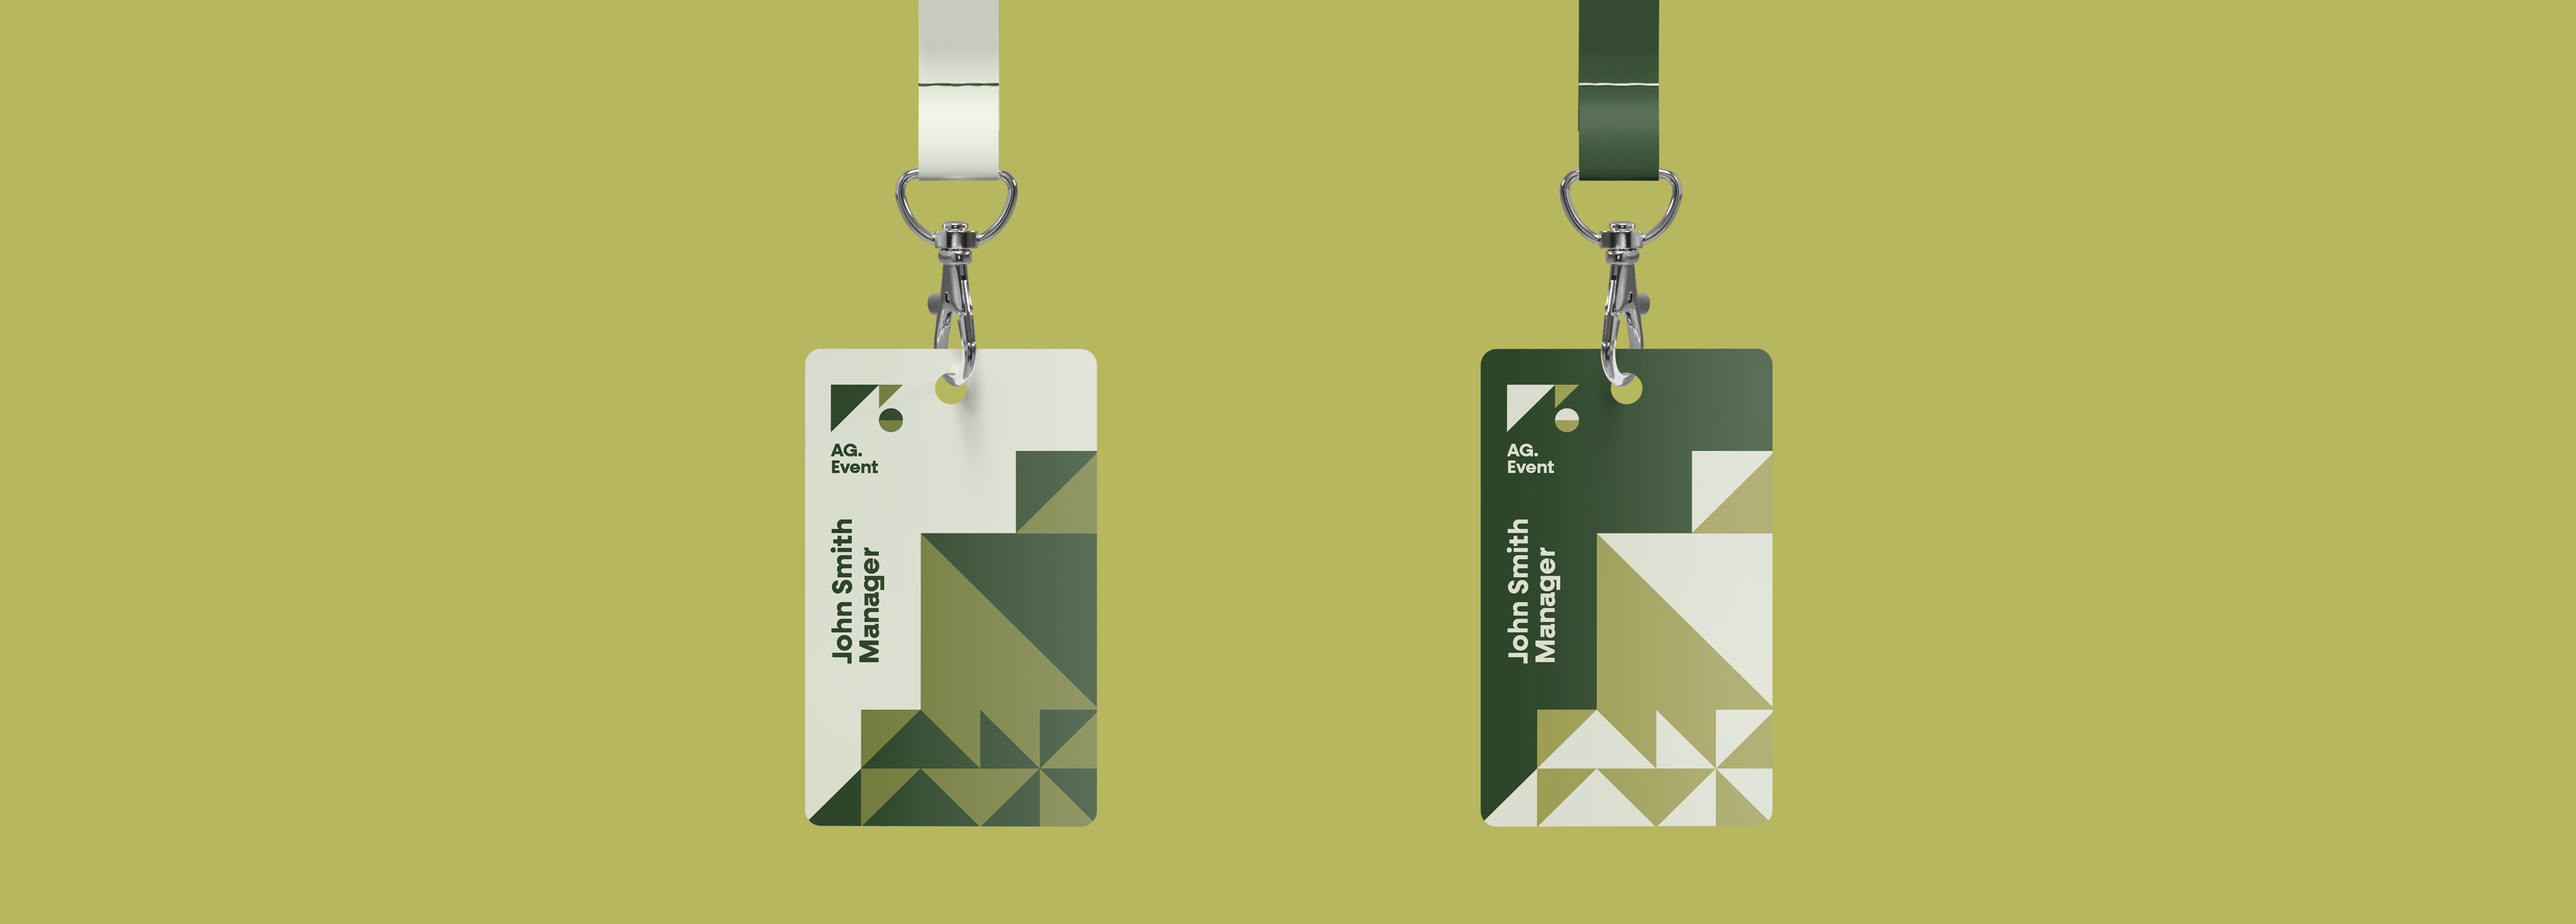
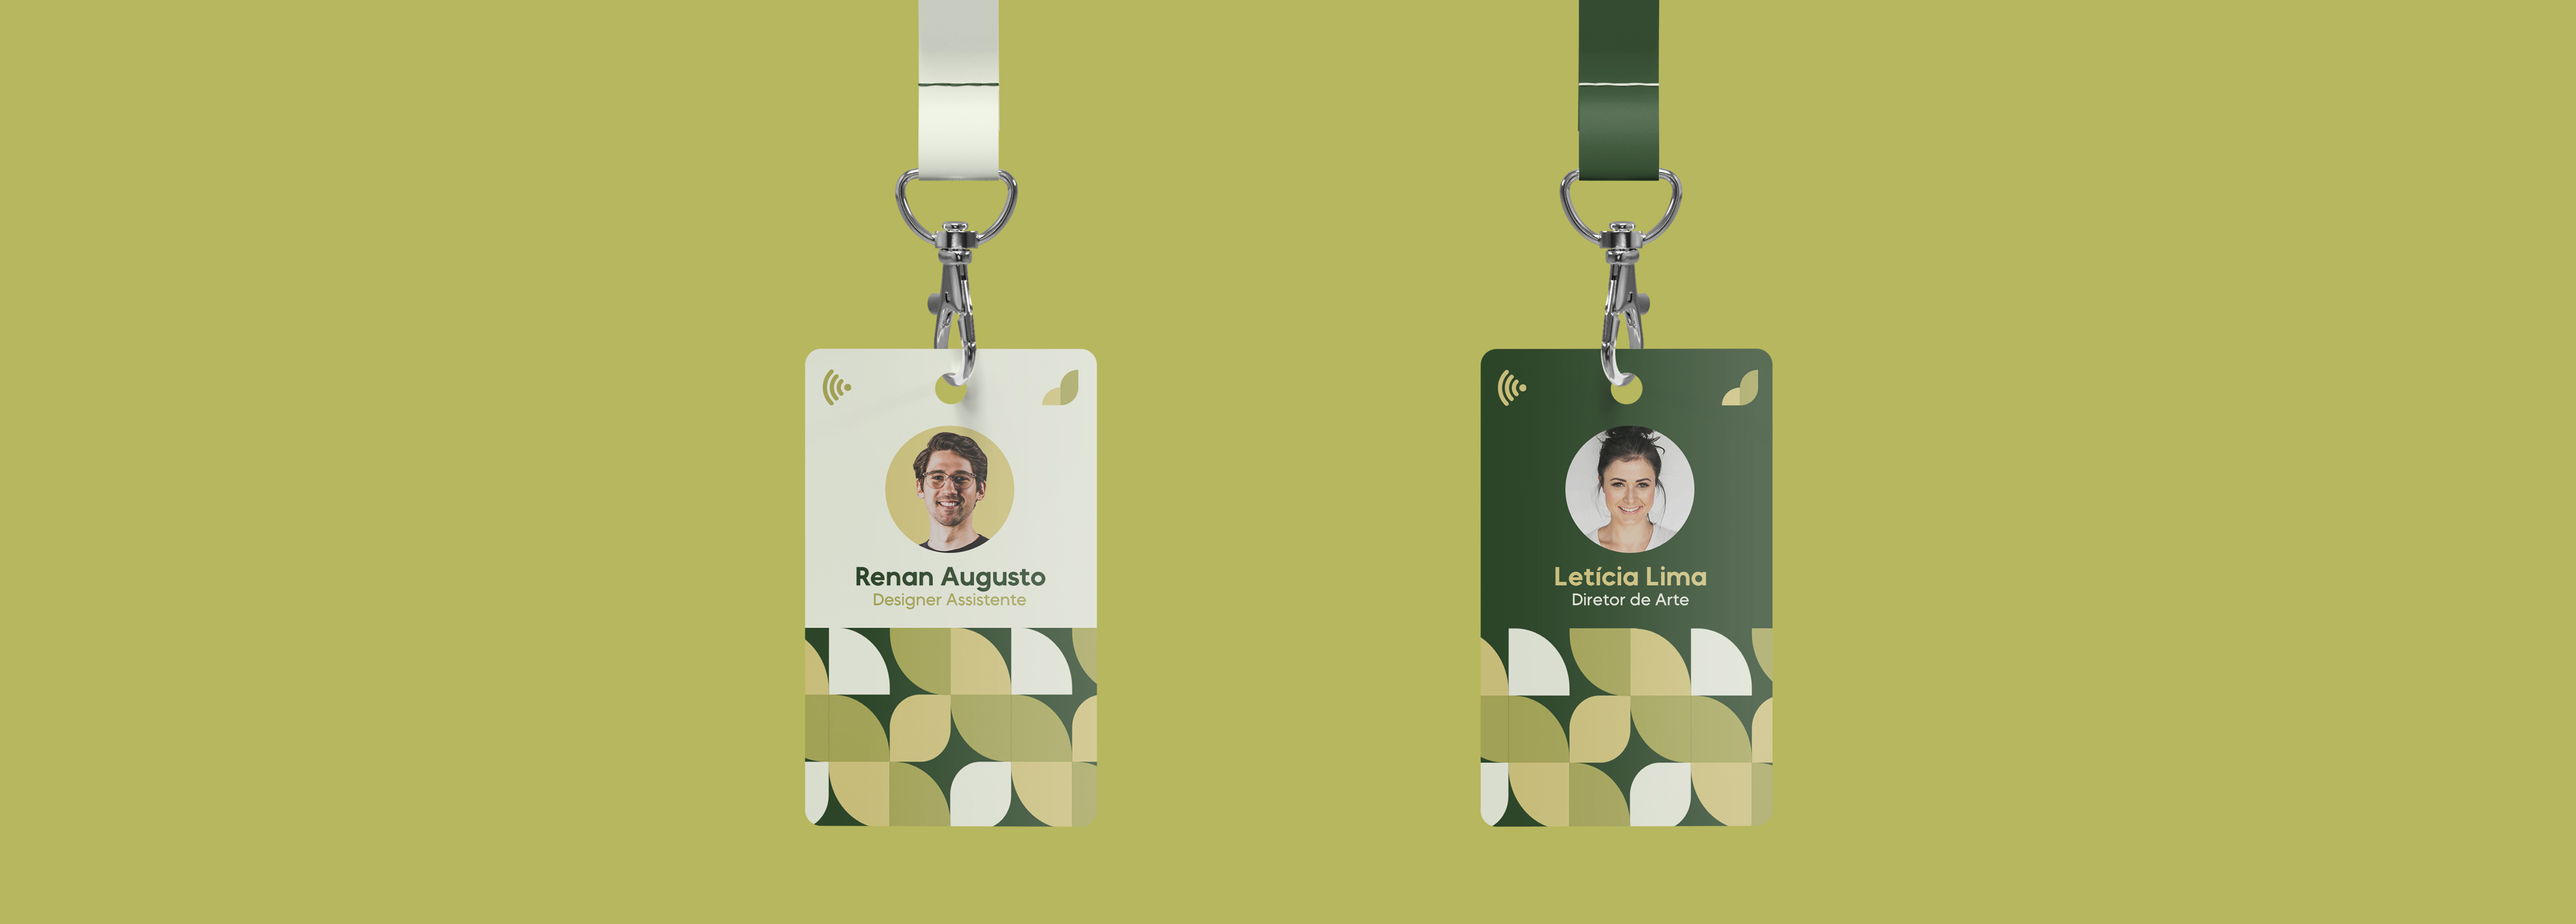
add applications

diff --git a/trampos/merula.html b/trampos/merula.html
@@ -56,7 +56,7 @@
                 </div>
                 <div class="port-bglogo">
                     <div class="overlay-bglogo merula"></div>
-                    <img src="../images/pages/merula/bg-project.jpg" alt="">   
+                    <img src="../images/pages/merula/bgpin.jpg" alt="">   
                 </div>
             </div>
             <div class="port-projeto-merula">
@@ -80,24 +80,11 @@
                     </div>
                 </div>
                 <div class="merula-poster">
-                    <span class="imgs-project"><img src="../images/pages/merula/outdoors.jpg" class="projeto_imgs" alt=""></span>
+                    <span class="imgs-project"><img src="../images/pages/merula/atributos.jpg" class="projeto_imgs" alt=""></span>
                 </div>
-                <div class="merula-preset2">
-                    <div class="merula-preset2-header">
-                        <div class="merula-preset2-indice">
-                            <h4>identidade</h4>
-                        </div>
-                        <div class="merula-preset-logo">
-                            <img src="../images/pages/merula/merula.svg" alt="">
-                        </div>
-                    </div>
-                    <div class="merula-idvisual">
-                        <img src="../images/pages/merula/atributos.png" alt="">
-                    </div>
-                    <div class="merula-processo">
-                        <span class="imgs-project"><img src="../images/pages/merula/merula-logo-reveal.gif" class="projeto_imgs" alt=""></span>
-                        <span class="imgs-project"><img src="../images/pages/merula/merula-grid-reveal.gif" class="projeto_imgs" alt=""></span>
-                    </div>
+                <div class="merula-processo">
+                    <span class="imgs-project"><img src="../images/pages/merula/merula-logo-reveal.gif" class="projeto_imgs" alt=""></span>
+                    <span class="imgs-project"><img src="../images/pages/merula/merula-grid-reveal.gif" class="projeto_imgs" alt=""></span>
                 </div>
                 <div class="merula-papelaria">
                     <span class="imgs-project"><img src="../images/pages/merula/papelaria.jpg" class="projeto_imgs" alt=""></span>
@@ -160,6 +147,36 @@
                 </div>
                 <div class="merula-cards">
                     <span class="imgs-project"><img src="../images/pages/merula/card.jpg" class="projeto_imgs" alt=""></span>
+                </div>
+                <div class="merula-preset2">
+                    <div class="merula-preset2-header">
+                        <div class="merula-preset2-indice">
+                            <h4>aplicações</h4>
+                        </div>
+                        <div class="merula-preset-logo">
+                            <img src="../images/pages/merula/merula.svg" alt="">
+                        </div>
+                    </div>
+                    <div class="merula-application">
+                        <div class="apl-one">
+                            <span class="imgs-project"><img src="../images/pages/merula/ecobag.jpg" class="projeto_imgs" alt=""></span>
+                            <span class="imgs-project"><img src="../images/pages/merula/mochila.jpg" class="projeto_imgs" alt=""></span>
+                            <span class="imgs-project"><img src="../images/pages/merula/camiseta.jpg" class="projeto_imgs" alt=""></span>
+                            <span class="imgs-project"><img src="../images/pages/merula/moletom.jpg" class="projeto_imgs" alt=""></span>
+                        </div>
+                        <div class="apl-two">
+                            <span class="imgs-project"><img src="../images/pages/merula/garrafa.jpg" class="projeto_imgs" alt=""></span>
+                            <span class="imgs-project"><img src="../images/pages/merula/fone.jpg" class="projeto_imgs" alt=""></span>
+                            <span class="imgs-project"><img src="../images/pages/merula/copo.jpg" class="projeto_imgs" alt=""></span>
+                            <span class="imgs-project"><img src="../images/pages/merula/pins.jpg" class="projeto_imgs" alt=""></span>
+                        </div>
+                    </div>
+                </div>
+                <div class="merula-socialmedia">
+                    <span class="imgs-project"><img src="../images/pages/merula/socialmedia.jpg" class="projeto_imgs" alt=""></span>
+                </div>
+                <div class="merula-frase">
+                    <img src="../images/pages/merula/frase.jpg" class="projeto_imgs" alt="">
                 </div>
             </div>
             <div class="modal">

diff --git a/css/pages.css b/css/pages.css
@@ -440,33 +440,23 @@
     width: 85vw;
     align-items: center;
     justify-content: space-between;
-    color: var(--merula-txt2);
+    color: var(--merula-tit);
 }
 
 .merula-preset2-indice h4{
     font-weight: 400;
 }
 
-.merula-idvisual{
-    display: flex;
-    width: 80vw;
-    align-items: center;
-    justify-content: center;
-}
-
-.merula-idvisual img{
-    display: flex;
-    width: 100%;
-    align-items: center;
-    justify-content: center;
-}
-
 .merula-processo{
     display: flex;
     flex-direction: row;
-    width: 85vw;
+    width: 100vw;
     align-items: center;
+    padding: 10vh 7.5vw;
     justify-content: space-between;
+    background-image: url(../images/pages/merula/bg-project.jpg);
+    background-size: contain;
+    background-color: var(--merula-tit);
 }
 
 .merula-processo img{
@@ -633,6 +623,50 @@
 .merula-cards img{
     width: 85vw;
     cursor: pointer;
+}
+
+.merula-application{
+    margin-top: 5vh;
+    display: flex;
+    flex-direction: column;
+    justify-content:space-evenly;
+    align-items: center;
+    background-color: var(--merula-bg);
+    height: 65vh;
+    width: 100vw;
+}
+
+.apl-one, .apl-two{
+    width: 85vw;
+    display: flex;
+    flex-direction: row;
+    justify-content: space-between;
+    align-items: center;
+}
+
+.merula-application img{
+    width: 20vw;
+    cursor: pointer;
+}
+
+.merula-socialmedia{
+    display: flex;
+    justify-content:center;
+    background-color: var(--merula-txt2);
+}
+
+.merula-socialmedia img{
+    width: 100vw;
+    cursor: pointer;
+}
+
+.merula-frase{
+    display: flex;
+    justify-content:center;
+}
+
+.merula-frase img{
+    width: 100%;
 }
 
 /*PAGINA SOBRE*/
